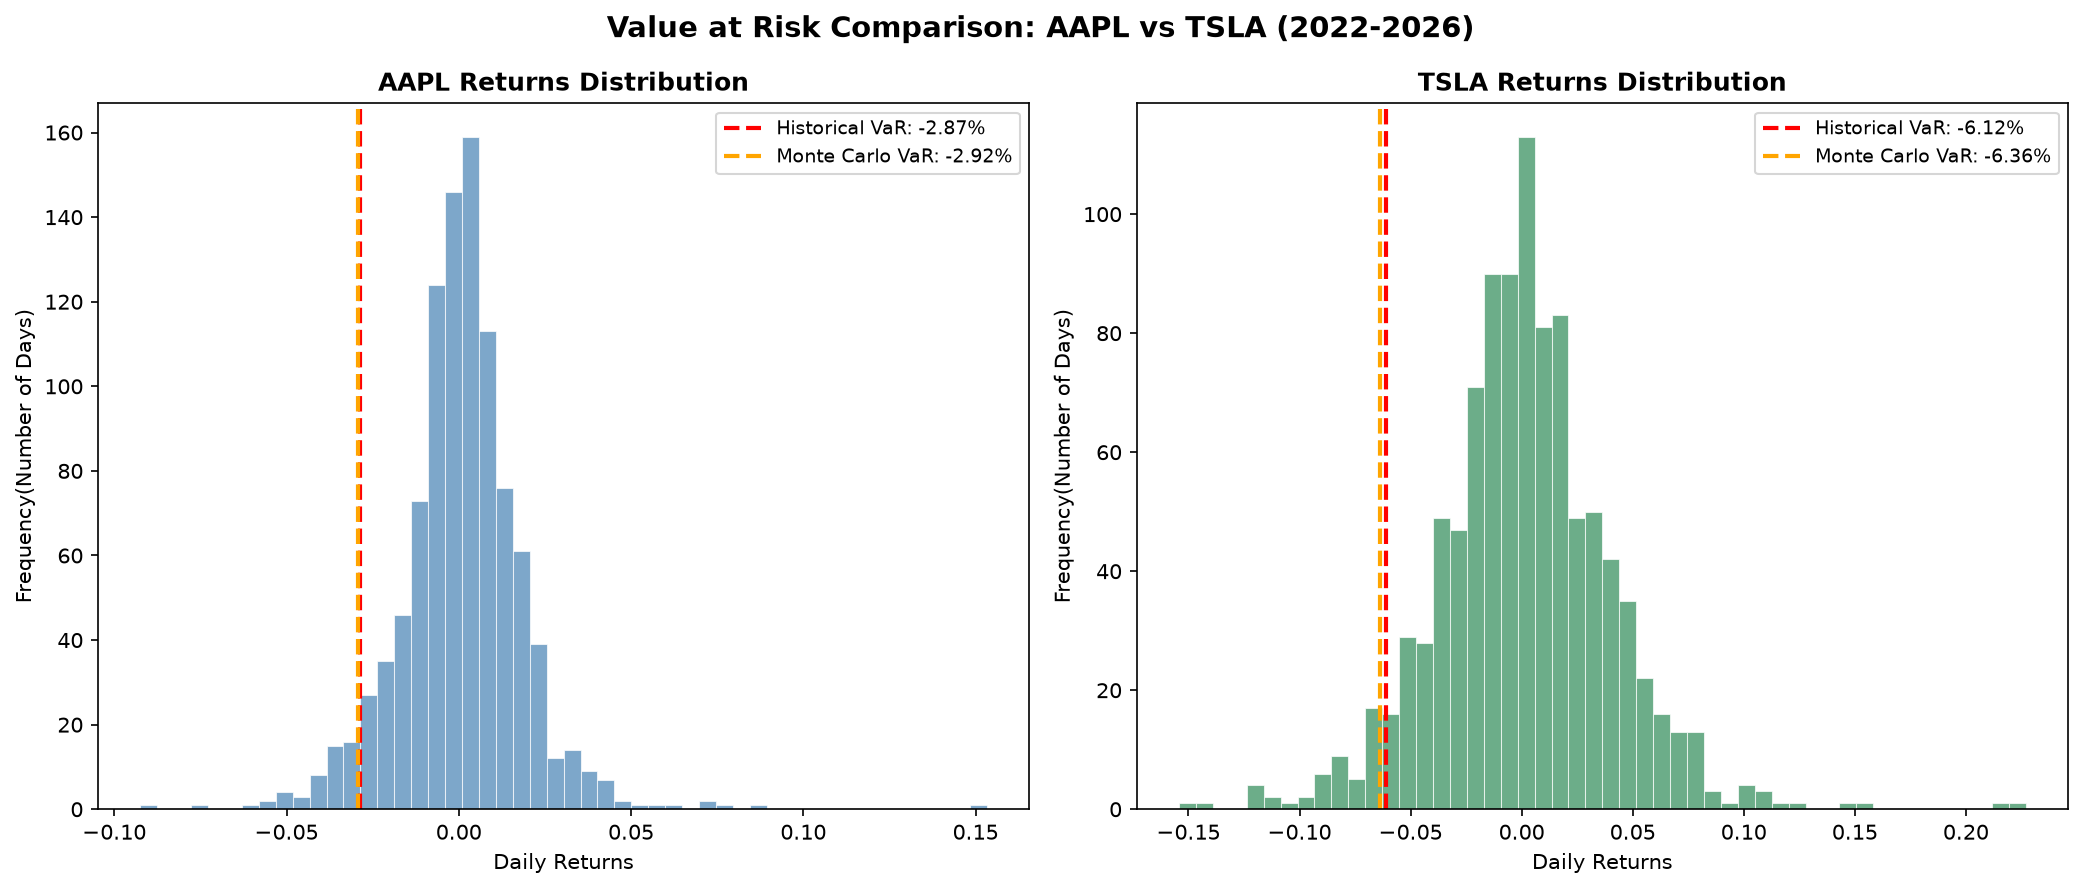
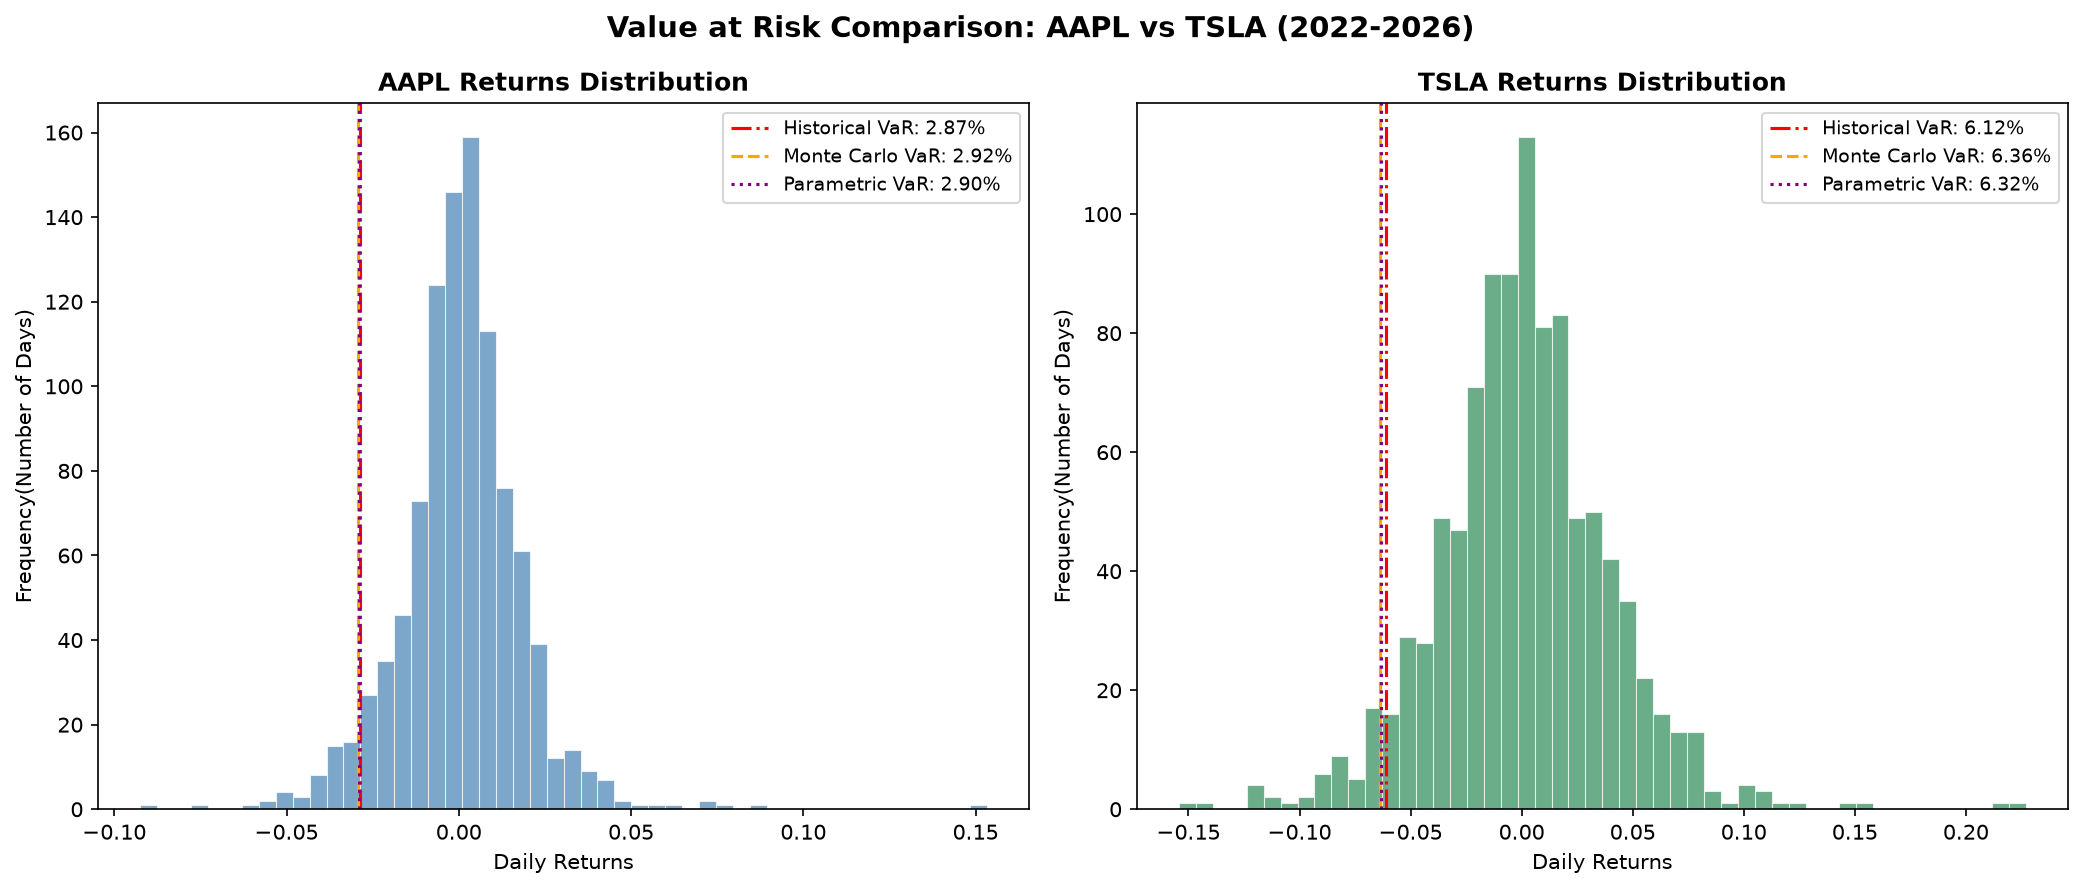
Include Out of Sample Backtest

Changed region(s): [[0.8425, 0.1215, 0.9986, 0.243], [0.3433, 0.1215, 0.4993, 0.243]]

diff --git a/var_model.py b/var_model.py
@@ -14,9 +14,11 @@ def calculate_var(ticker, start_date="2022-01-01", end_date="2026-01-01",
     data = yf.download(ticker, start=start_date, end=end_date)
     prices = data["Close"]
     returns = prices.pct_change().dropna()
+
 #Historical VaR Calculation
     historical_var = np.percentile(returns, 100 - confidence_level * 100)
     historical_var_dollar = portfolio_value * abs(historical_var)
+
 # Monte Carlo VaR Calculation
     mean_return = returns.mean().values[0]
     std_return = returns.std().values[0]
@@ -25,6 +27,12 @@ def calculate_var(ticker, start_date="2022-01-01", end_date="2026-01-01",
     simulated_returns = np.random.normal(mean_return, std_return, num_simulations)
     monte_carlo_var = np.percentile(simulated_returns, 100 - confidence_level * 100)
     monte_carlo_var_dollar = portfolio_value * abs(monte_carlo_var)
+
+# Parametics VaR
+    z_score = stats.norm.ppf(1-confidence_level)
+    parametric_var = mean_return + (z_score * std_return)
+    parametric_var_dollar = portfolio_value * abs(parametric_var)
+
 # Create a dictionary to store the results
     results = {
         "ticker": ticker,
@@ -35,8 +43,10 @@ def calculate_var(ticker, start_date="2022-01-01", end_date="2026-01-01",
         "historical_var": historical_var,
         "historical_var_dollar": historical_var_dollar,
         "monte_carlo_var": monte_carlo_var,
-        "monte_carlo_var_dollar": monte_carlo_var_dollar
-    }
+        "monte_carlo_var_dollar": monte_carlo_var_dollar,
+        "parametric_var": parametric_var,
+        "parametric_var_dollar": parametric_var_dollar
+        }
     return results
 
 def backtest_var(results, confidence_level=0.95):
@@ -66,11 +76,52 @@ def backtest_var(results, confidence_level=0.95):
     else: 
         print("Result: Model is well-calibrated (breach rate close to expected)")
 
+def out_of_sample_backtest(ticker, train_start="2022-01-01", train_end="2024-06-01", test_start="2024-06-01", test_end="2026-01-01",
+                           confidence_level=0.95, portfolio_value=10000):
+    """
+    Calucates VaR using a traingin period, then tests that threshold against a separte,
+    later testing period the model has never seen.
+    """
+    # Training: Calculate VaR using the earliest period
+    train_data = yf.download(ticker, start=train_start, end=train_end)
+    train_prices = train_data["Close"]
+    train_returns = train_prices.pct_change().dropna()
+    historical_var = np.percentile(train_returns, 100-confidence_level*100)
+
+    # Testing: Check the treshold against the later period
+    test_data = yf.download(ticker, start=test_start, end=test_end)
+    test_prices = test_data["Close"]
+    test_returns=test_prices.pct_change().dropna()
+
+    breaches = (test_returns < historical_var).sum()
+    total_test_days = len(test_returns)
+    actual_breach_rate = (breaches/total_test_days)*100
+    expected_breach_rate = (1-confidence_level)*100
+
+    # Print Out of Sample Backtest Results
+    print(f"\n\tOUT OF SAMPLE BACKTEST: {ticker}")
+    print(f"Training period: {train_start} to {train_end}")
+    print(f"Testing period: {test_start} to {test_end}")
+    print(f"VaR threshold (from training data): {historical_var*100:.2f}%")
+    print(f"Total testing days: {total_test_days}")
+    print(f"VaR breaches in testing period: {breaches.values[0]}")
+    print(f"Expected breach rate: {expected_breach_rate:.1f}%")
+    print(f"Acutal breach rate: {actual_breach_rate.values[0]:.2f}%")
+
+    if actual_breach_rate.values[0] > expected_breach_rate*1.2:
+        print("Result: Model UNDERESTIMATES risk out-of-sample")
+    elif actual_breach_rate.values[0] < expected_breach_rate*0.8:
+        print("Result: Model OVERESTIMATES risk out-of-sample")
+    else: 
+        print("Result: Model remains well-calibrated out-of-sample")
+
 # Call the function for the stocks
 aapl_results = calculate_var("AAPL")
 tsla_results = calculate_var("TSLA")
 backtest_var(aapl_results)
 backtest_var(tsla_results)
+out_of_sample_backtest("AAPL")
+out_of_sample_backtest("TSLA")
 
 # Print the results
 print("\tRISK COMPARISON: AAPL vs TSLA")
@@ -78,6 +129,7 @@ print(f"{'Metric':<30}{'AAPL':<15}{'TSLA':<15}")
 print(f"{'Std Deviation (Volatility)':<30}{aapl_results['std_return']:<15.4f}{tsla_results['std_return']:<15.4f}")
 print(f"{'Historical VaR ($)':<30}{aapl_results['historical_var_dollar']:<15.2f}{tsla_results['historical_var_dollar']:<15.2f}")
 print(f"{'Monte Carlo VaR ($)':<30}{aapl_results['monte_carlo_var_dollar']:<15.2f}{tsla_results['monte_carlo_var_dollar']:<15.2f}")
+print(f"{'Parametric VaR ($)':<30}{aapl_results['parametric_var_dollar']:<15.2f}{tsla_results['parametric_var_dollar']:<15.2f}")
 
 # Gap Calculation
 aapl_gap = abs(aapl_results['historical_var_dollar'] - aapl_results['monte_carlo_var_dollar'])
@@ -90,8 +142,9 @@ fig.suptitle("Value at Risk Comparison: AAPL vs TSLA (2022-2026)",
 
 # AAPL Returns Distribution Chart
 ax1.hist(aapl_results["returns"], bins=50, color="steelblue", alpha=0.7, edgecolor="white", linewidth=0.5)
-ax1.axvline(x=aapl_results["historical_var"], color="red", linewidth=2, linestyle="--", label=f"Historical VaR: {aapl_results['historical_var']*100:.2f}%")
-ax1.axvline(x=aapl_results["monte_carlo_var"], color="orange", linewidth=2, linestyle="--", label=f"Monte Carlo VaR: {aapl_results['monte_carlo_var']*100:.2f}%")
+ax1.axvline(x=aapl_results["historical_var"], color="red", linewidth=1.5, linestyle="-.", label=f"Historical VaR: {abs(aapl_results['historical_var'])*100:.2f}%")
+ax1.axvline(x=aapl_results["monte_carlo_var"], color="orange", linewidth=1.5, linestyle="--", label=f"Monte Carlo VaR: {abs(aapl_results['monte_carlo_var'])*100:.2f}%")
+ax1.axvline(x=aapl_results["parametric_var"],color = "purple", linewidth=1.5, linestyle = ":", label=f"Parametric VaR: {abs(aapl_results['parametric_var'])*100:.2f}%")
 ax1.set_title("AAPL Returns Distribution", fontsize=12, fontweight="bold")
 ax1.set_xlabel("Daily Returns", fontsize=10)
 ax1.set_ylabel("Frequency(Number of Days)", fontsize=10)
@@ -99,8 +152,9 @@ ax1.legend(fontsize=9)
 
 # TSLA Returns Distribution Chart
 ax2.hist(tsla_results["returns"], bins=50, color="seagreen", alpha=0.7, edgecolor="white", linewidth=0.5)
-ax2.axvline(x=tsla_results["historical_var"], color="red", linewidth=2, linestyle="--", label=f"Historical VaR: {tsla_results['historical_var']*100:.2f}%")
-ax2.axvline(x=tsla_results["monte_carlo_var"], color="orange", linewidth=2, linestyle="--", label=f"Monte Carlo VaR: {tsla_results['monte_carlo_var']*100:.2f}%")
+ax2.axvline(x=tsla_results["historical_var"], color="red", linewidth=1.5, linestyle="-.", label=f"Historical VaR: {abs(tsla_results['historical_var'])*100:.2f}%")
+ax2.axvline(x=tsla_results["monte_carlo_var"], color="orange", linewidth=1.5, linestyle="--", label=f"Monte Carlo VaR: {abs(tsla_results['monte_carlo_var'])*100:.2f}%")
+ax2.axvline(x=tsla_results["parametric_var"], color="purple", linewidth=1.5, linestyle= ":", label=f"Parametric VaR: {abs(tsla_results['parametric_var'])*100:.2f}%")
 ax2.set_title("TSLA Returns Distribution", fontsize=12, fontweight="bold")
 ax2.set_xlabel("Daily Returns", fontsize=10)
 ax2.set_ylabel("Frequency(Number of Days)", fontsize=10)
@@ -109,5 +163,4 @@ ax2.legend(fontsize=9)
 plt.tight_layout()
 plt.savefig("var_comparison_aapl_tsla.png", dpi=150, bbox_inches="tight")
 plt.show()
-
-print("\nChart saved as var_comparison_aapl_tesla.png")
+print("\nChart saved as var_comparison_aapl_tsla.png")